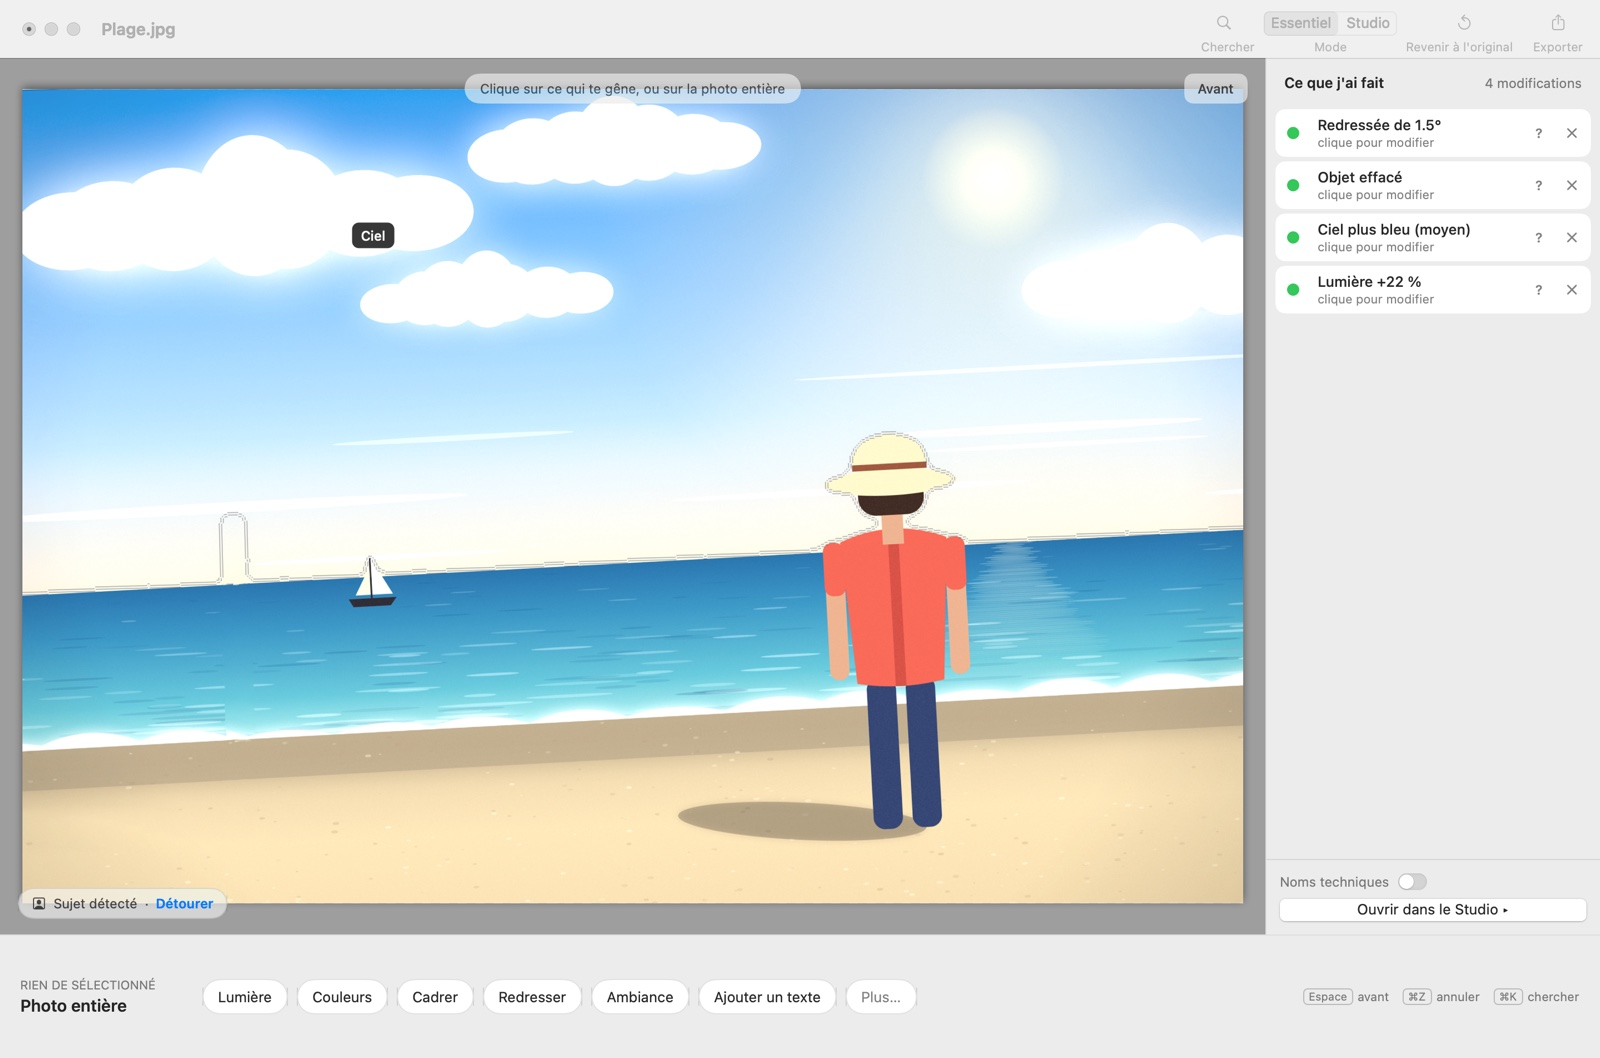
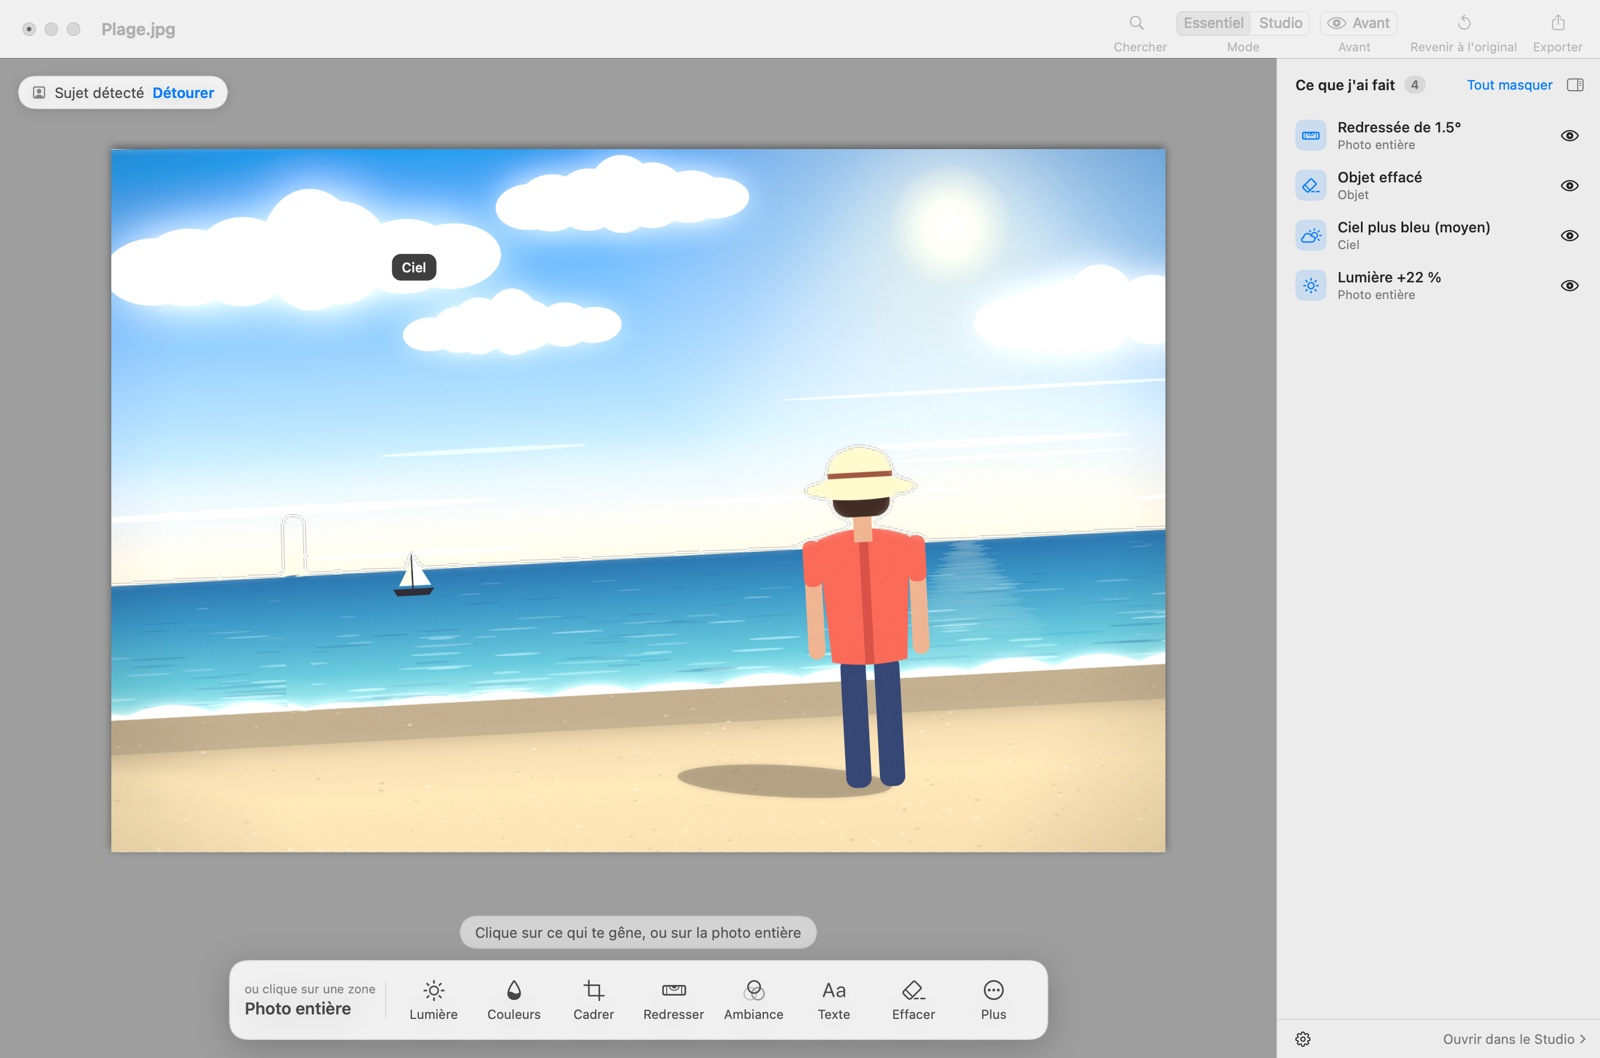
Atelier 0.3.1 : Essentiel redessiné, aide partout, Studio pour débutants, nouvelles fonctions

diff --git a/notes/0.3.1.fr.html b/notes/0.3.1.fr.html
@@ -1,0 +1,19 @@
+<!doctype html>
+<html lang="fr"><head><meta charset="utf-8"><title>Nouveautés d'Atelier 0.3.1</title>
+<style>
+  :root { color-scheme: light dark; }
+  body { font: 15px/1.5 -apple-system, BlinkMacSystemFont, sans-serif; margin: 14px 18px; color: #14213d; }
+  h1 { font-size: 18px; margin: 0 0 8px; }
+  ul { margin: 0; padding-left: 20px; } li { margin: 4px 0; }
+  @media (prefers-color-scheme: dark) { body { color: #e8eefc; background: transparent; } }
+</style></head>
+<body><h1>Nouveautés d'Atelier 0.3.1</h1><ul>
+  <li>Essentiel redessiné : une barre d&#x27;actions flottante au bas de la photo, des variantes présentées en cartes, un journal plus lisible, et une bulle d&#x27;aide sur chaque bouton.</li>
+  <li>Effacer : un bouton toujours présent. Brosse ou entoure ce que tu veux enlever, Atelier rebouche ; « Encore » propose un autre résultat. Échap remet tout à plat, y compris une sélection venue du Studio.</li>
+  <li>De l&#x27;aide partout : une explication en français courant au survol de chaque outil, option, menu, effet et curseur ; une ligne d&#x27;aide en bas de la fenêtre ; menu Aide → Mode d&#x27;emploi (cherchable), Premiers pas (visite guidée), Raccourcis.</li>
+  <li>Studio repensé pour les débutants : outils groupés par intention et nommés, préréglages Doux / Moyen / Fort, menus par verbes (Image → Améliorer, Corriger, Transformer, Taille), panneau Calques à boutons nommés, boîtes uniformes avec Avant, préréglages et Réinitialiser, noms courants (les noms techniques restent disponibles).</li>
+  <li>Nouveaux réglages : TSL par couleur, étalonnage 3 voies, voile atmosphérique, grain, filtre photo, dégradé de couleurs, mélangeur de couches, correction sélective, noir et blanc par couleur, transfert de couleurs, égaliser ; 31 modes de fusion.</li>
+  <li>Nouveaux filtres : passe-haut, netteté optimisée, flous de bascule, iris, de champ et sur tracé, correction d&#x27;objectif, mise à l&#x27;échelle selon le contenu.</li>
+  <li>Nouveaux outils : sélection rapide, lasso magnétique, doigt, goutte / netteté, forme d&#x27;historique, tampon de motif, mesure (avec « Redresser selon la ligne »), transformation libre complète (inclinaison, distorsion, saisie numérique) ; fenêtres Plage de couleurs et Affiner le contour (cheveux, décontamination).</li>
+  <li>Fusionner des photos : HDR, mise au point et panorama avec alignement automatique. Actions enregistrables et traitement par lot sur un dossier. Exporter sous… avec préréglages, multi-tailles et poids calculé en direct.</li>
+</ul></body></html>

diff --git a/notes/0.3.1.de.html b/notes/0.3.1.de.html
@@ -1,0 +1,19 @@
+<!doctype html>
+<html lang="de"><head><meta charset="utf-8"><title>Neu in Atelier 0.3.1</title>
+<style>
+  :root { color-scheme: light dark; }
+  body { font: 15px/1.5 -apple-system, BlinkMacSystemFont, sans-serif; margin: 14px 18px; color: #14213d; }
+  h1 { font-size: 18px; margin: 0 0 8px; }
+  ul { margin: 0; padding-left: 20px; } li { margin: 4px 0; }
+  @media (prefers-color-scheme: dark) { body { color: #e8eefc; background: transparent; } }
+</style></head>
+<body><h1>Neu in Atelier 0.3.1</h1><ul>
+  <li>Essentiell neu gestaltet: eine schwebende Aktionsleiste unter dem Foto, Varianten als Karten, ein übersichtlicheres Protokoll und ein Hilfetipp auf jeder Taste.</li>
+  <li>Entfernen: immer nur einen Klick entfernt. Male oder umkreise, was weg soll, und Atelier füllt es auf; „Noch einmal“ liefert ein anderes Ergebnis. Escape räumt alles auf, auch eine im Studio gemachte Auswahl.</li>
+  <li>Hilfe überall: eine Erklärung in Alltagssprache beim Überfahren jedes Werkzeugs, jeder Option, jedes Menüs, Effekts und Reglers; eine Hilfezeile am unteren Fensterrand; Menü Hilfe → Handbuch (durchsuchbar), Erste Schritte (Rundgang), Kurzbefehle.</li>
+  <li>Studio für Einsteiger neu gedacht: Werkzeuge nach Absicht gruppiert und benannt, Voreinstellungen Weich / Mittel / Stark, Menüs mit Verben (Bild → Verbessern, Korrigieren, Transformieren, Größe), Ebenenbereich mit benannten Tasten, einheitliche Dialoge mit Vorher, Voreinstellungen und Zurücksetzen, Alltagsnamen (Fachbegriffe bleiben verfügbar).</li>
+  <li>Neue Anpassungen: HSL pro Farbe, Dreiwege-Farbkorrektur, Dunst entfernen, Körnung, Fotofilter, Verlaufsumsetzung, Kanalmixer, selektive Farbkorrektur, Schwarzweiß pro Farbe, Farbübertragung, Tonwertangleichung; 31 Füllmethoden.</li>
+  <li>Neue Filter: Hochpass, selektiver Scharfzeichner, Tilt-Shift-, Iris-, Feld- und Pfadweichzeichner, Objektivkorrektur, inhaltsbasiertes Skalieren.</li>
+  <li>Neue Werkzeuge: Schnellauswahl, magnetisches Lasso, Wischfinger, Weichzeichnen / Scharfzeichnen, Protokollpinsel, Musterstempel, Messen (mit „Entlang der Linie ausrichten“), vollständige freie Transformation (Neigen, Verzerren, Zahleneingabe); Fenster Farbbereich und Kante verbessern (Haare, Farbsäume entfernen).</li>
+  <li>Fotos zusammenfügen: HDR, Fokus-Stacking und Panorama mit automatischer Ausrichtung. Aufzeichenbare Aktionen und Stapelverarbeitung eines Ordners. Exportieren als … mit Voreinstellungen, mehreren Größen und live berechneter Dateigröße.</li>
+</ul></body></html>

diff --git a/notes/0.3.1.it.html b/notes/0.3.1.it.html
@@ -1,0 +1,19 @@
+<!doctype html>
+<html lang="it"><head><meta charset="utf-8"><title>Novità di Atelier 0.3.1</title>
+<style>
+  :root { color-scheme: light dark; }
+  body { font: 15px/1.5 -apple-system, BlinkMacSystemFont, sans-serif; margin: 14px 18px; color: #14213d; }
+  h1 { font-size: 18px; margin: 0 0 8px; }
+  ul { margin: 0; padding-left: 20px; } li { margin: 4px 0; }
+  @media (prefers-color-scheme: dark) { body { color: #e8eefc; background: transparent; } }
+</style></head>
+<body><h1>Novità di Atelier 0.3.1</h1><ul>
+  <li>Essenziale ridisegnato: una barra delle azioni fluttuante sotto la foto, varianti presentate come schede, un diario più leggibile e un suggerimento su ogni pulsante.</li>
+  <li>Cancella: sempre a un clic. Pennella o circonda ciò che vuoi togliere e Atelier riempie; «Ancora» propone un altro risultato. Esc azzera tutto, compresa una selezione fatta nello Studio.</li>
+  <li>Aiuto ovunque: una spiegazione in linguaggio corrente passando su ogni strumento, opzione, menu, effetto e cursore; una riga di aiuto in fondo alla finestra; menu Aiuto → Manuale (con ricerca), Primi passi (visita guidata), Scorciatoie.</li>
+  <li>Studio ripensato per i principianti: strumenti raggruppati per intento e con nome, preimpostazioni Leggero / Medio / Forte, menu per verbi (Immagine → Migliora, Correggi, Trasforma, Dimensioni), pannello Livelli con pulsanti con nome, finestre uniformi con Prima, preimpostazioni e Ripristina, nomi correnti (quelli tecnici restano disponibili).</li>
+  <li>Nuove regolazioni: HSL per colore, correzione colore a tre vie, rimozione foschia, grana, filtro fotografico, mappa sfumatura, miscelatore canali, correzione selettiva, bianco e nero per colore, trasferimento colore, equalizza; 31 metodi di fusione.</li>
+  <li>Nuovi filtri: passa alto, nitidezza avanzata, sfocature tilt-shift, iride, di campo e su tracciato, correzione lente, ridimensionamento in base al contenuto.</li>
+  <li>Nuovi strumenti: selezione rapida, lazo magnetico, sfumino, sfoca / contrasta, pennello storia, timbro con pattern, misura (con «Raddrizza lungo la linea»), trasformazione libera completa (inclina, distorci, valori numerici); finestre Intervallo colori e Perfeziona bordo (capelli, decontaminazione).</li>
+  <li>Unisci foto: HDR, focus stacking e panorama con allineamento automatico. Azioni registrabili ed elaborazione in serie su una cartella. Esporta come… con preimpostazioni, più dimensioni e peso calcolato in tempo reale.</li>
+</ul></body></html>

diff --git a/notes/0.3.1.es.html b/notes/0.3.1.es.html
@@ -1,0 +1,19 @@
+<!doctype html>
+<html lang="es"><head><meta charset="utf-8"><title>Novedades de Atelier 0.3.1</title>
+<style>
+  :root { color-scheme: light dark; }
+  body { font: 15px/1.5 -apple-system, BlinkMacSystemFont, sans-serif; margin: 14px 18px; color: #14213d; }
+  h1 { font-size: 18px; margin: 0 0 8px; }
+  ul { margin: 0; padding-left: 20px; } li { margin: 4px 0; }
+  @media (prefers-color-scheme: dark) { body { color: #e8eefc; background: transparent; } }
+</style></head>
+<body><h1>Novedades de Atelier 0.3.1</h1><ul>
+  <li>Esencial rediseñado: una barra de acciones flotante bajo la foto, variantes en tarjetas, un diario más legible y una burbuja de ayuda en cada botón.</li>
+  <li>Borrar: siempre a un clic. Pinta o rodea lo que quieras quitar y Atelier lo rellena; «Otra vez» propone otro resultado. Escape lo despeja todo, incluida una selección hecha en el Estudio.</li>
+  <li>Ayuda en todas partes: una explicación en lenguaje corriente al pasar sobre cada herramienta, opción, menú, efecto y control; una línea de ayuda al pie de la ventana; menú Ayuda → Manual (con búsqueda), Primeros pasos (visita guiada), Atajos.</li>
+  <li>Estudio repensado para principiantes: herramientas agrupadas por intención y con nombre, preajustes Suave / Medio / Fuerte, menús por verbos (Imagen → Mejorar, Corregir, Transformar, Tamaño), panel Capas con botones nombrados, diálogos uniformes con Antes, preajustes y Restablecer, nombres corrientes (los técnicos siguen disponibles).</li>
+  <li>Nuevos ajustes: HSL por color, etalonaje de tres vías, eliminar neblina, grano, filtro fotográfico, mapa de degradado, mezclador de canales, corrección selectiva, blanco y negro por color, transferencia de color, ecualizar; 31 modos de fusión.</li>
+  <li>Nuevos filtros: paso alto, enfoque inteligente, desenfoques tilt-shift, iris, de campo y de trazado, corrección de lente, escala según el contenido.</li>
+  <li>Nuevas herramientas: selección rápida, lazo magnético, dedo, desenfocar / enfocar, pincel de historia, tampón de motivo, medir (con «Enderezar según la línea»), transformación libre completa (sesgar, distorsionar, entrada numérica); ventanas Gama de colores y Perfeccionar borde (cabello, descontaminación).</li>
+  <li>Fusionar fotos: HDR, apilado de enfoque y panorama con alineación automática. Acciones grabables y proceso por lotes en una carpeta. Exportar como… con preajustes, varios tamaños y peso calculado en directo.</li>
+</ul></body></html>

diff --git a/notes/0.3.1.pt.html b/notes/0.3.1.pt.html
@@ -1,0 +1,19 @@
+<!doctype html>
+<html lang="pt"><head><meta charset="utf-8"><title>Novidades do Atelier 0.3.1</title>
+<style>
+  :root { color-scheme: light dark; }
+  body { font: 15px/1.5 -apple-system, BlinkMacSystemFont, sans-serif; margin: 14px 18px; color: #14213d; }
+  h1 { font-size: 18px; margin: 0 0 8px; }
+  ul { margin: 0; padding-left: 20px; } li { margin: 4px 0; }
+  @media (prefers-color-scheme: dark) { body { color: #e8eefc; background: transparent; } }
+</style></head>
+<body><h1>Novidades do Atelier 0.3.1</h1><ul>
+  <li>Essencial redesenhado: uma barra de ações flutuante sob a foto, variantes em cartões, um diário mais legível e uma dica de ajuda em cada botão.</li>
+  <li>Apagar: sempre a um clique. Pinta ou rodeia o que queres tirar e o Atelier preenche; «Outra vez» propõe outro resultado. Escape limpa tudo, incluindo uma seleção feita no Estúdio.</li>
+  <li>Ajuda em todo o lado: uma explicação em linguagem corrente ao passar sobre cada ferramenta, opção, menu, efeito e controlo; uma linha de ajuda no fundo da janela; menu Ajuda → Manual (pesquisável), Primeiros passos (visita guiada), Atalhos.</li>
+  <li>Estúdio repensado para principiantes: ferramentas agrupadas por intenção e com nome, predefinições Suave / Médio / Forte, menus por verbos (Imagem → Melhorar, Corrigir, Transformar, Tamanho), painel Camadas com botões nomeados, janelas uniformes com Antes, predefinições e Repor, nomes correntes (os técnicos continuam disponíveis).</li>
+  <li>Novos ajustes: HSL por cor, gradação de cor em três vias, remover névoa, grão, filtro fotográfico, mapa de gradiente, misturador de canais, correção seletiva, preto e branco por cor, transferência de cor, equalizar; 31 modos de mistura.</li>
+  <li>Novos filtros: passa-alto, nitidez inteligente, desfoques tilt-shift, íris, de campo e de traçado, correção de lente, escala consoante o conteúdo.</li>
+  <li>Novas ferramentas: seleção rápida, laço magnético, dedo, desfocar / nitidez, pincel de histórico, carimbo de padrão, medir (com «Endireitar pela linha»), transformação livre completa (inclinar, distorcer, valores numéricos); janelas Gama de cores e Refinar contorno (cabelo, descontaminação).</li>
+  <li>Fundir fotos: HDR, empilhamento de foco e panorama com alinhamento automático. Ações graváveis e processamento em lote numa pasta. Exportar como… com predefinições, vários tamanhos e peso calculado em direto.</li>
+</ul></body></html>

diff --git a/notes/0.3.1.nl.html b/notes/0.3.1.nl.html
@@ -1,0 +1,19 @@
+<!doctype html>
+<html lang="nl"><head><meta charset="utf-8"><title>Nieuw in Atelier 0.3.1</title>
+<style>
+  :root { color-scheme: light dark; }
+  body { font: 15px/1.5 -apple-system, BlinkMacSystemFont, sans-serif; margin: 14px 18px; color: #14213d; }
+  h1 { font-size: 18px; margin: 0 0 8px; }
+  ul { margin: 0; padding-left: 20px; } li { margin: 4px 0; }
+  @media (prefers-color-scheme: dark) { body { color: #e8eefc; background: transparent; } }
+</style></head>
+<body><h1>Nieuw in Atelier 0.3.1</h1><ul>
+  <li>Essentieel opnieuw ontworpen: een zwevende actiebalk onder de foto, varianten als kaarten, een duidelijker logboek en een helptip op elke knop.</li>
+  <li>Wissen: altijd één klik verwijderd. Borstel of omcirkel wat weg moet en Atelier vult het in; ‘Nog eens’ geeft een ander resultaat. Escape maakt alles leeg, ook een selectie uit de Studio.</li>
+  <li>Overal hulp: een uitleg in gewone taal wanneer je over een gereedschap, optie, menu, effect of schuifknop beweegt; een hulpregel onderaan het venster; menu Help → Handleiding (doorzoekbaar), Eerste stappen (rondleiding), Sneltoetsen.</li>
+  <li>Studio herdacht voor beginners: gereedschappen gegroepeerd op doel en benoemd, voorinstellingen Zacht / Gemiddeld / Sterk, menu’s met werkwoorden (Afbeelding → Verbeteren, Herstellen, Transformeren, Grootte), een Lagen-paneel met benoemde knoppen, uniforme vensters met Vóór, voorinstellingen en Herstel, gewone namen (technische namen blijven beschikbaar).</li>
+  <li>Nieuwe aanpassingen: HSL per kleur, driewegs kleurcorrectie, nevel verwijderen, korrel, fotofilter, verloopkaart, kanaalmixer, selectieve kleur, zwart-wit per kleur, kleuroverdracht, egaliseren; 31 overvloeimodi.</li>
+  <li>Nieuwe filters: hoogdoorlaat, slim verscherpen, tilt-shift-, iris-, veld- en padvervaging, lenscorrectie, inhoudsbewust schalen.</li>
+  <li>Nieuwe gereedschappen: snelle selectie, magnetische lasso, vinger, vervagen / verscherpen, geschiedenispenseel, patroonstempel, meten (met ‘Rechtzetten langs de lijn’), volledige vrije transformatie (schuintrekken, vervormen, numerieke invoer); vensters Kleurbereik en Rand verfijnen (haar, kleurzuivering).</li>
+  <li>Foto’s samenvoegen: HDR, scherptestapeling en panorama met automatische uitlijning. Opneembare acties en batchverwerking van een map. Exporteren als… met voorinstellingen, meerdere formaten en live bestandsgrootte.</li>
+</ul></body></html>

diff --git a/notes/0.3.1.en.html b/notes/0.3.1.en.html
@@ -1,0 +1,19 @@
+<!doctype html>
+<html lang="en"><head><meta charset="utf-8"><title>What's new in Atelier 0.3.1</title>
+<style>
+  :root { color-scheme: light dark; }
+  body { font: 15px/1.5 -apple-system, BlinkMacSystemFont, sans-serif; margin: 14px 18px; color: #14213d; }
+  h1 { font-size: 18px; margin: 0 0 8px; }
+  ul { margin: 0; padding-left: 20px; } li { margin: 4px 0; }
+  @media (prefers-color-scheme: dark) { body { color: #e8eefc; background: transparent; } }
+</style></head>
+<body><h1>What's new in Atelier 0.3.1</h1><ul>
+  <li>Essential redesigned: a floating action bar under the photo, variants shown as cards, a clearer journal, and a help tip on every button.</li>
+  <li>Erase: always one click away. Brush or circle what you want gone and Atelier fills it in; “Again” offers another result. Escape clears everything, including a selection made in the Studio.</li>
+  <li>Help everywhere: a plain-language explanation when hovering any tool, option, menu, effect or slider; a help line at the bottom of the window; Help menu → User Guide (searchable), First Steps (guided tour), Shortcuts.</li>
+  <li>Studio rethought for beginners: tools grouped by intent and named, Soft / Medium / Strong presets, verb-based menus (Image → Enhance, Fix, Transform, Size), a Layers panel with named buttons, uniform dialogs with Before, presets and Reset, everyday names (technical names remain available).</li>
+  <li>New adjustments: HSL by color, three-way color grading, dehaze, grain, photo filter, gradient map, channel mixer, selective color, black &amp; white by color, color transfer, equalize; 31 blend modes.</li>
+  <li>New filters: high pass, smart sharpen, tilt-shift, iris, field and path blurs, lens correction, content-aware scale.</li>
+  <li>New tools: quick selection, magnetic lasso, smudge, blur / sharpen, history brush, pattern stamp, measure (with “Straighten along the line”), full free transform (skew, distort, numeric entry); Color Range and Refine Edge windows (hair, decontamination).</li>
+  <li>Merge photos: HDR, focus stacking and panorama with automatic alignment. Recordable actions and batch processing on a folder. Export As… with presets, multiple sizes and live file size.</li>
+</ul></body></html>
